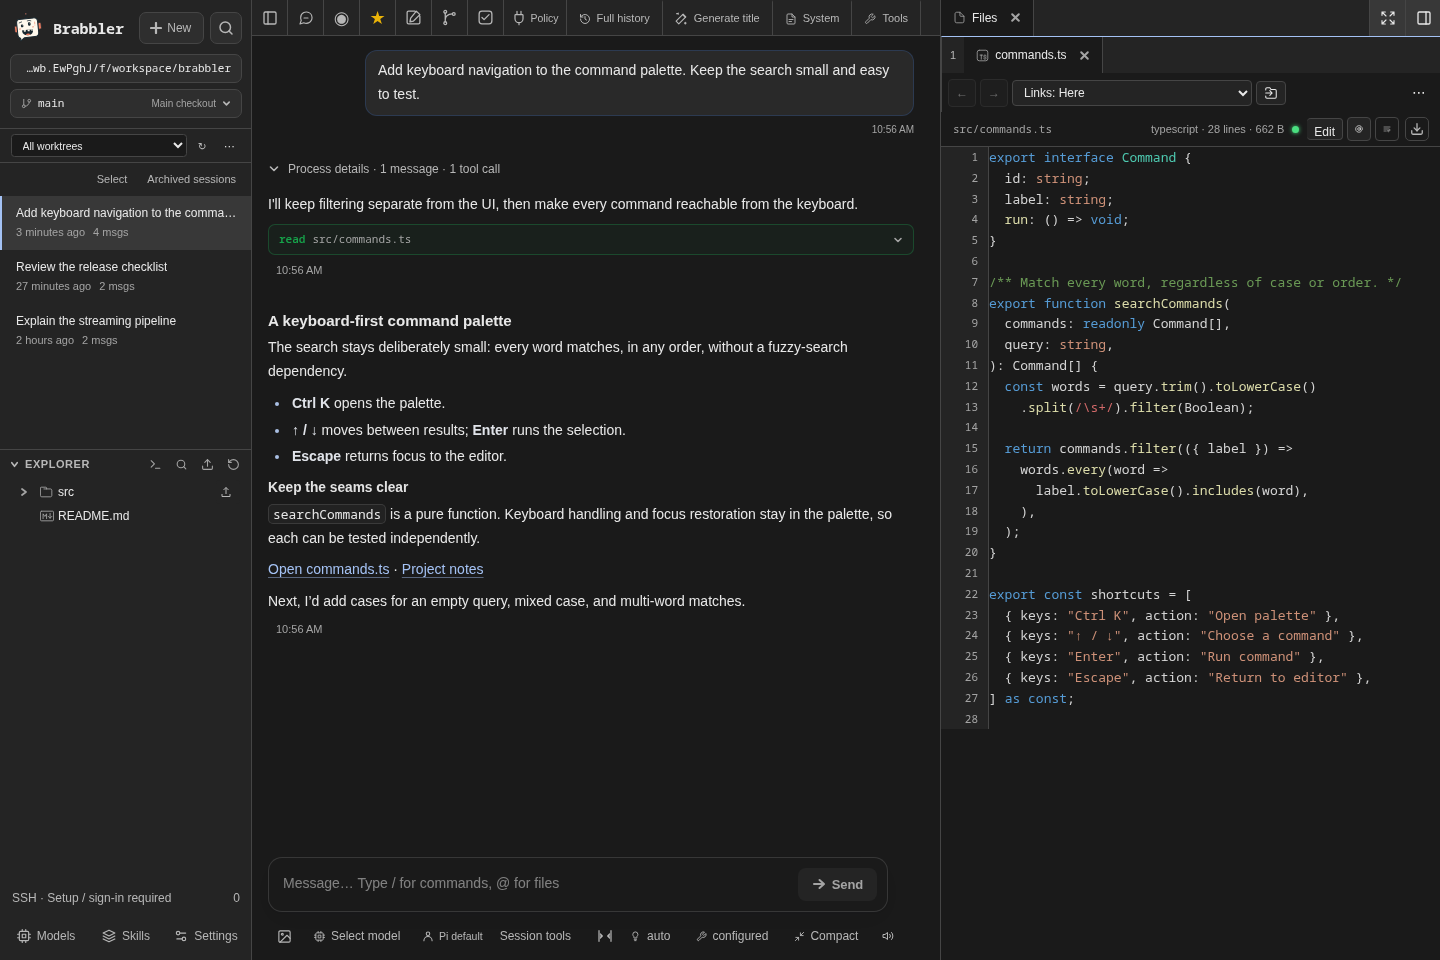
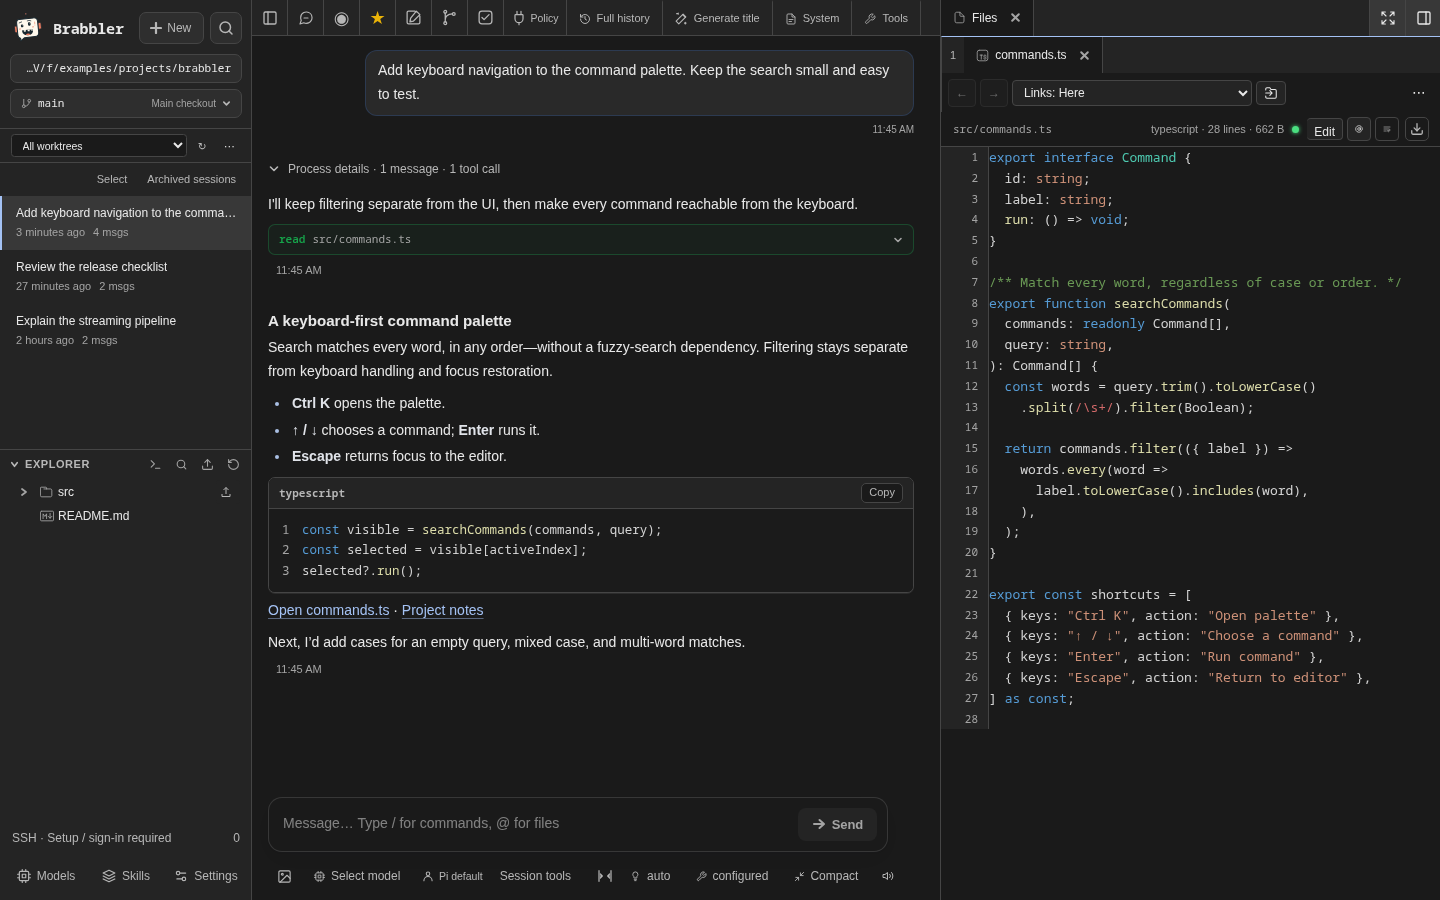
Keep static mascot rendering native and await real screenshot colors
Use a native decorative image for the sidebar SVG, which needs no raster optimizer, preserving the name/version button and demo base path without the failing next/image import boundary.

Wait for actual rendered TypeScript tokens with distinct computed colors in both the file pane and conversation before capturing the README. Retain native color evidence, improve the synthetic scene, and use the exact screenshot approved by the user; do not inject styling or weaken error collection.

Verified eleven generated assets, 31 focused Nix tests with static checks, and the revised packaged appearance capture. Retain the previous full acceptance and failures separately; complete verification of the revised capture input follows.

diff --git a/demo/components/SessionSidebar.tsx b/demo/components/SessionSidebar.tsx
@@ -1,6 +1,5 @@
 "use client";
 
-import Image from "next/image";
 import { demoAssetPath } from "@/mock/base-path";
 import { useEffect, useLayoutEffect, useState, useCallback, useMemo, useRef, type CSSProperties, type ReactNode } from "react";
 import type { SessionInfo } from "@/lib/types";
@@ -385,7 +384,9 @@ function BrabblerTitle() {
         minWidth: 0,
       }}
     >
-      <Image src={demoAssetPath("/brand/robot.svg")} width={36} height={32} alt="" priority style={{ flexShrink: 0 }} />
+      {/* Static SVG needs no raster optimizer. */}
+      {/* eslint-disable-next-line @next/next/no-img-element */}
+      <img src={demoAssetPath("/brand/robot.svg")} width={36} height={32} alt="" fetchPriority="high" style={{ flexShrink: 0 }} />
       <span style={{ minWidth: 0, overflow: "hidden", textOverflow: "ellipsis", whiteSpace: "nowrap" }}>{display}</span>
     </button>
   );

diff --git a/components/SessionSidebar.tsx b/components/SessionSidebar.tsx
@@ -1,6 +1,5 @@
 "use client";
 
-import Image from "next/image";
 import { useNavigationWork } from "@/lib/navigation-work";
 import { useEffect, useLayoutEffect, useState, useCallback, useMemo, useRef, type CSSProperties, type ReactNode } from "react";
 import type { SessionInfo } from "@/lib/types";
@@ -398,7 +397,9 @@ function BrabblerTitle() {
         minWidth: 0,
       }}
     >
-      <Image src="/brand/robot.svg" width={36} height={32} alt="" priority style={{ flexShrink: 0 }} />
+      {/* Static SVG needs no raster optimizer. */}
+      {/* eslint-disable-next-line @next/next/no-img-element */}
+      <img src="/brand/robot.svg" width={36} height={32} alt="" fetchPriority="high" style={{ flexShrink: 0 }} />
       <span style={{ minWidth: 0, overflow: "hidden", textOverflow: "ellipsis", whiteSpace: "nowrap" }}>{display}</span>
     </button>
   );

diff --git a/docs/plans/2026-10-28_robot-branding-plan.md b/docs/plans/2026-10-28_robot-branding-plan.md
@@ -4,36 +4,55 @@
 
 Apply the user's approved head-only, crooked-antenna Brabbler robot unchanged to the application and README, and replace the inherited upstream screenshot with a representative capture of the real packaged UI using synthetic content.
 
-## Context
+## Reopened by user screenshot review
 
-The user approved this work and the dedicated `feat/robot-branding` worktree, based on local main `7aeb430f803556125abc24213ecd46f87c262efb`. Existing active plans do not own branding. The approved draft is `/tmp/brabbler-robot-face.uW5SKT/robot-face.svg`; preserve its geometry, colors and round antenna tip. Static branding is the default; retain the animation as editable/reproducible design material, not an always-moving application control.
+The user rejected the 1440×960 image as unattractive and missing syntax highlighting. The earlier acceptance below remains evidence for its exact frozen input, not acceptance of the screenshot's visual quality. Retraction: text/fonts/image readiness was insufficient; the capture did not await actual styled TypeScript tokens. The revised capture must wait for native token colors in file and chat, improve the composition and be visually reviewed before integration. The superseded uncommitted plan is retained at `/tmp/brabbler-robot-all-final.95qb2_rt/plan-before-screenshot-review.md`; no merge has occurred.
+
[1 lines of base64/hex data omitted]
+
+## Context and scope
+
+The user authorized implementation and `feat/robot-branding` in its dedicated linked worktree, initially based on local main `7aeb430f803556125abc24213ecd46f87c262efb`. A patch-identical rebase onto `474b75ab912717d88948b72aee6ffd1d9142ac05` produced implementation commit `9f961ae27cdb93dad87b99917f1c6897645cb920`. Acceptance below covers that code plus the native static-SVG Sidebar correction. Existing active plans do not own branding.
+
+No redesign, deployment, service restart, NixOS consumer mutation, publication, migration, credential access or live-data screenshot was included. The round antenna tip remains approved as-is. Historical screenshots and unrelated worktrees remain untouched. The static demo is synchronized/source-reviewed, not production-build verified.
 
 ## Plan
 
-- [x] Preserve the approved vector and animation generator in maintained sources; derive application/demo PNG icons and a multi-size favicon without changing package dependencies. Check deterministic regeneration and dimensions.
-- [x] Apply the mascot to sidebar, empty-chat/login branding, offline/PWA assets and the static demo's corresponding copies, preserving accessible text and existing interactions. Verify relevant asset/manifest/service-worker contracts.
-- [x] Capture a polished dark desktop workspace with synthetic chat, tools and a file panel inside the existing Nix browser fixture; inspect the actual pixels and record provenance. Do not use live sessions or the installed host service.
-- [x] Update README branding, screenshot and current branding documentation; remove the now-obsolete current claim that the application retains the π icon. Preserve historical evidence.
-- [ ] Review the settled candidate independently and complete Nix core/static/plugin, full browser/terminal inventory and genuine Home Manager VM acceptance. Record exact inputs, results, timings and artifacts.
-- [ ] Hand the verified candidate to the global Git lifecycle for rebase/revalidation, exact local-main non-fast-forward integration approval, and separately gated cleanup. That lifecycle and its durable execution receipts own these remaining operations, not the implementation plan.
+- [x] Preserve the approved vector and animation poses in maintained sources; generate matching main/demo PNG icons and native 16/32/48px favicons without dependency changes. All eleven generated outputs byte-check; static SVG and GIF match the approved originals.
+- [x] Apply static branding to sidebar, empty chat/login, PWA/offline assets and demo counterparts. Preserve accessible button text and existing behavior; use a native decorative image for the Sidebar's static SVG rather than an unnecessary raster optimizer.
+- [x] Capture and inspect a real packaged dark desktop workspace with authored synthetic conversations, tool history and a private example Git project; import the actual successful-run PNG.
+- [x] Update README and current branding documentation, removing the obsolete current claim that the application retains the π icon. Preserve native Pi interfaces and historical evidence.
+- [ ] Independently source-review the settled changes and pass Nix core/static/plugin, all browser/terminal groups and the genuine Home Manager VM acceptance.
+- [ ] Hand off the verified candidate to the global Git lifecycle. Its exact approval gates and durable receipts own the remaining local-main unsigned non-fast-forward integration and separately approved cleanup; archival is not their execution receipt.
 
-## Non-goals
+## Verification and retained failures
 
-No redesign, deployment, service restart, NixOS consumer mutation, publication, migration, credential access, live-data screenshots or legal-clearance claim. Existing historical screenshots and unrelated worktrees remain untouched.
+- `tools/branding/generate.mjs --check` verifies eleven named outputs. `app/manifest.test.mjs` checks PNG dimensions, self-contained SVG markup and complete favicon entry dimensions/bounds; the service-worker test retains its exact precache inventory.
+- Focused Nix manifest/SW selection: 18 tests plus static checks, 41.486s. Initial packaged appearance: 107.425s including package realization; polished synthetic-Git capture: 34.492s, capsule execution 22.869s. Evidence: `/tmp/brabbler-branding-focused.0u86uxks/`. These are distinct cold/warm preparations, not a performance comparison.
+- First full run stopped honestly in 197.462s: seven mounted Sidebar cases rejected the newly introduced `next/image` default export as an object. No assertion/fixture weakening: replacing only the new Sidebar image import with native `<img>` (mirrored to demo) passed all 13 Sidebar tests plus static checks in 44.533s. Logs: `/tmp/brabbler-robot-all.zi1yfaxr/`.
+- A subsequent full attempt stopped before tests in 7.440s at the strict source identity guard for `hooks/useActivityController.ts`. The immutable store copy had the same SHA256 as the worktree, mode 0444, 1,155 hard links, and ctime within that attempt. A shared-store metadata race is suspected, not proven or fixed. The guard was unchanged. Corrected packaged appearance then passed on the same frozen source in 111.194s (21.713s capsule), realizing prerequisites before the final command. Failure, diagnostics and preparation evidence remain in `/tmp/brabbler-robot-all-final.95qb2_rt/`.
+- Independent read-only reviewer `01a18229-da6f-727b-b559-494165ed2ef3` found no concrete blockers, including the narrow native-image correction. It made no execution or demo-build claims.
+
+## Complete acceptance
+
+`nix run --no-write-lock-file .#test -- all --workers 4 --jobs 4` passed in **404.140s end-to-end** after the separately reported prerequisite realization. Requested/effective widths were 4/4 with overlap: 42.026 GiB available and 32 CPUs, below the documented 43 GiB threshold for 12/4 overlap. No source/guard/assertion changes separated the preparation refusal from the successful same-input full run; a passing retry is not an infrastructure-fix claim.
+
+- **526 files / 4,319 tests / 14 suites**, no failures/skips/cancellations; core 400.681s including preparation, file-execution envelope 397.645s. Report `/tmp/brabbler-test-core.ONpvZe/run.json`; immutable evidence `/nix/store/08bvc2nsiz7smvhjngdbj1pphriyyrm1-brabbler-core-checks/`.
+- **26 browser/terminal groups / 60 scenarios**, all passed; browser envelope 291.179s, support 2.983s, definition publication 5.205s. Report `/tmp/brabbler-test-browser.JjiXFM/run.json`.
+- **Genuine Home Manager VM passed**, envelope 63.827s, guest execution 19.865s. Report `/tmp/pwv-DJcZp0/run.json`.
+- Intervals overlap and are not additive. Seven pre-existing lint warnings remain, zero errors. Logs/timing/admission summary: `/tmp/brabbler-robot-all-final.95qb2_rt/settled-all.log`, adjacent JSON records, and `/tmp/brabbler-test-source-tAOsGD/selection.json`.
[1 lines of base64/hex data omitted]
+
+## Current screenshot and handoff
+
[1 lines of base64/hex data omitted]
+
+Only the screenshot and evidence/status documentation change after that frozen full run; application and test code remain unchanged. Final Git verification must confirm the same application derivation and exact source-code/assets before integration. [Branding](../../branding.md) owns current artwork regeneration and screenshot capture; global Git receipts own integration/cleanup. No remote or live deployment is authorized by this plan.
 
 ## Completion Checklist
 
-- [x] Approved artwork is durable and reproducible; app/demo assets agree.
-- [x] Branding and README screenshot have been visually inspected and source-reviewed.
-- [ ] All required acceptance levels pass for the relevant settled inputs.
-- [ ] Maintained branding guide owns regeneration/provenance; archive the completed plan after evidence is recorded.
-- [ ] Exact candidate handoff explicitly retains integration/cleanup with the global Git lifecycle; do not claim those operations from plan archival.
-
-## Focused evidence and screenshot provenance
-
-- Generator produced and byte-checked all eleven outputs; static SVG and talking GIF match the approved originals exactly. Main/demo artwork and icons share the generator.
-- Nix core selection `--jobs 2 --file app/manifest.test.mjs --file public/sw.test.mjs` passed all 18 tests plus typegen/typecheck/lint in 41.486s. Seven pre-existing lint warnings remain, zero errors.
-- Packaged appearance passed in 107.425s including initial package realization. A separate polished synthetic-Git/timestamp capture passed in 34.492s (capsule execution 22.869s); these are not comparable cold/warm benchmarks. Logs/timings: `/tmp/brabbler-branding-focused.0u86uxks/`.
[1 lines of base64/hex data omitted]
-- Independent read-only reviewer `01a18229-da6f-727b-b559-494165ed2ef3` found no concrete blockers. It made no execution or demo-build claims; parent verified the completed second capture and import separately.
-
+- [x] Approved artwork is durable/reproducible and main/demo assets agree.
+- [ ] Revised README capture has real syntax colors, a representative composition, visual inspection and source review.
+- [ ] Reassess and verify the revised capture input; retain unchanged earlier application evidence without relabelling its scope.
+- [ ] Update the branding guide and current-image provenance after the revised capture is verified.
+- [x] Integration/cleanup are explicitly retained with the global Git lifecycle, not claimed from archival.

diff --git a/docs/branding.md b/docs/branding.md
@@ -55,8 +55,11 @@ nix run .#test -- e2e --group appearance
 ```
 
 The appearance group runs its unchanged functional coverage first, then
-`e2e/readme-screenshot.mjs` captures a separate 1440×960 dark desktop illustration
-as `artifacts/readme-dark.png` in that run's appearance capsule. The fresh driver's
+`e2e/readme-screenshot.mjs` captures a separate 1440×900 dark desktop illustration
+as `artifacts/readme-dark.png` in that run's appearance capsule. It waits for real
+rendered TypeScript tokens with distinct computed syntax colors in both chat and
+file preview, recording `readme-highlighting.json`; text/font readiness alone is
+not sufficient. No styles are injected to manufacture highlighting. The fresh driver's
 printed `run.json` locates the capsule. Inspect the pixels before copying that
 specific artifact to `docs/screenshots/brabbler-workspace.png`; do not use a
 wildcard, an unrelated historical screenshot, or live workspace data.
